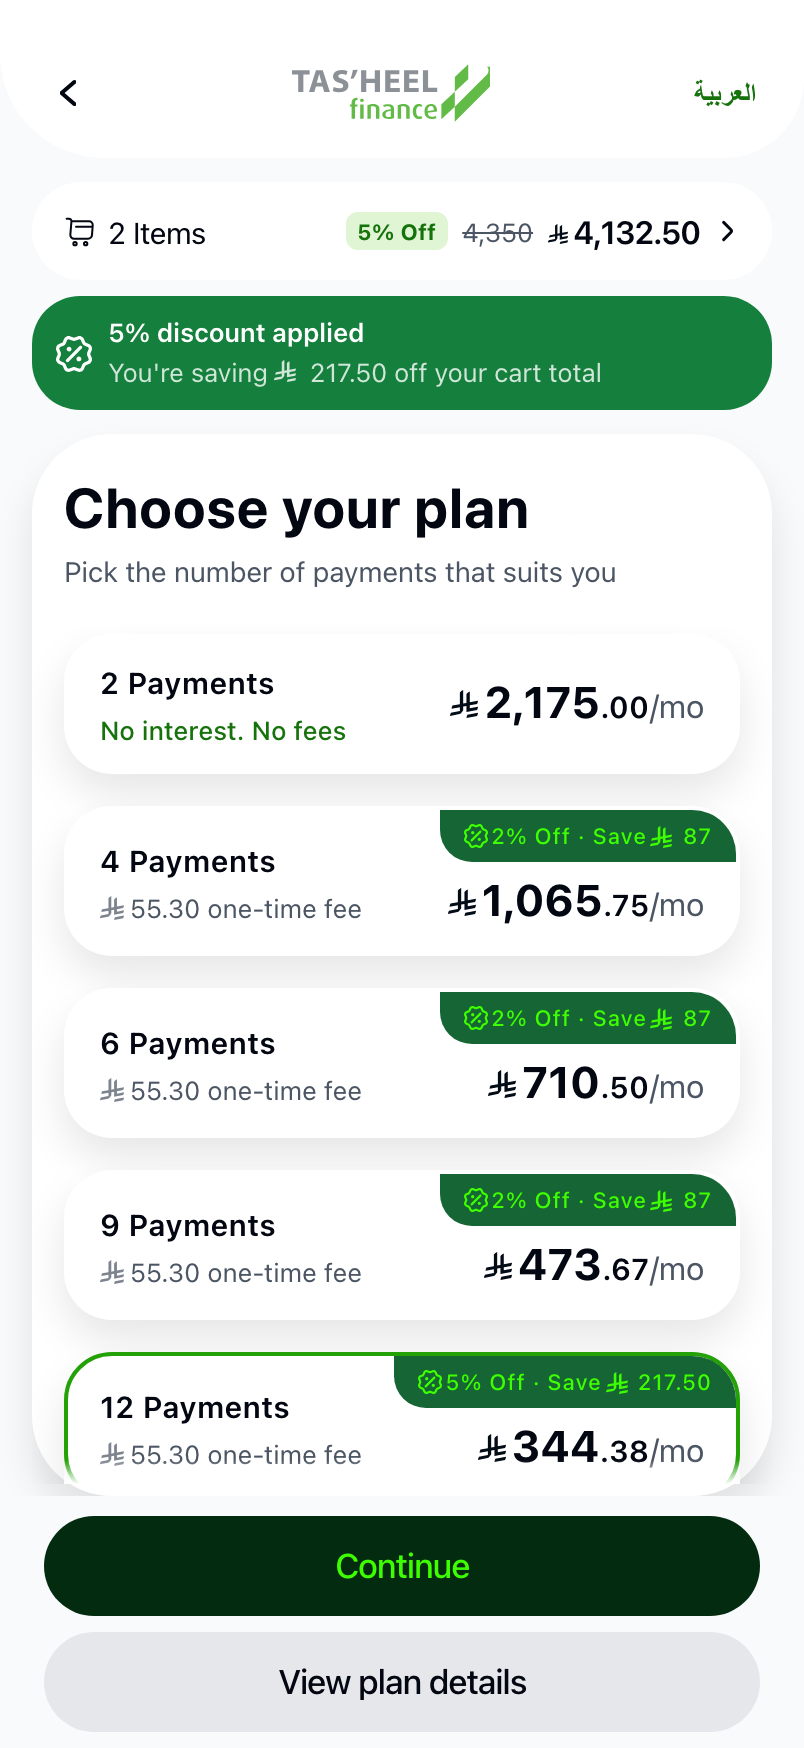
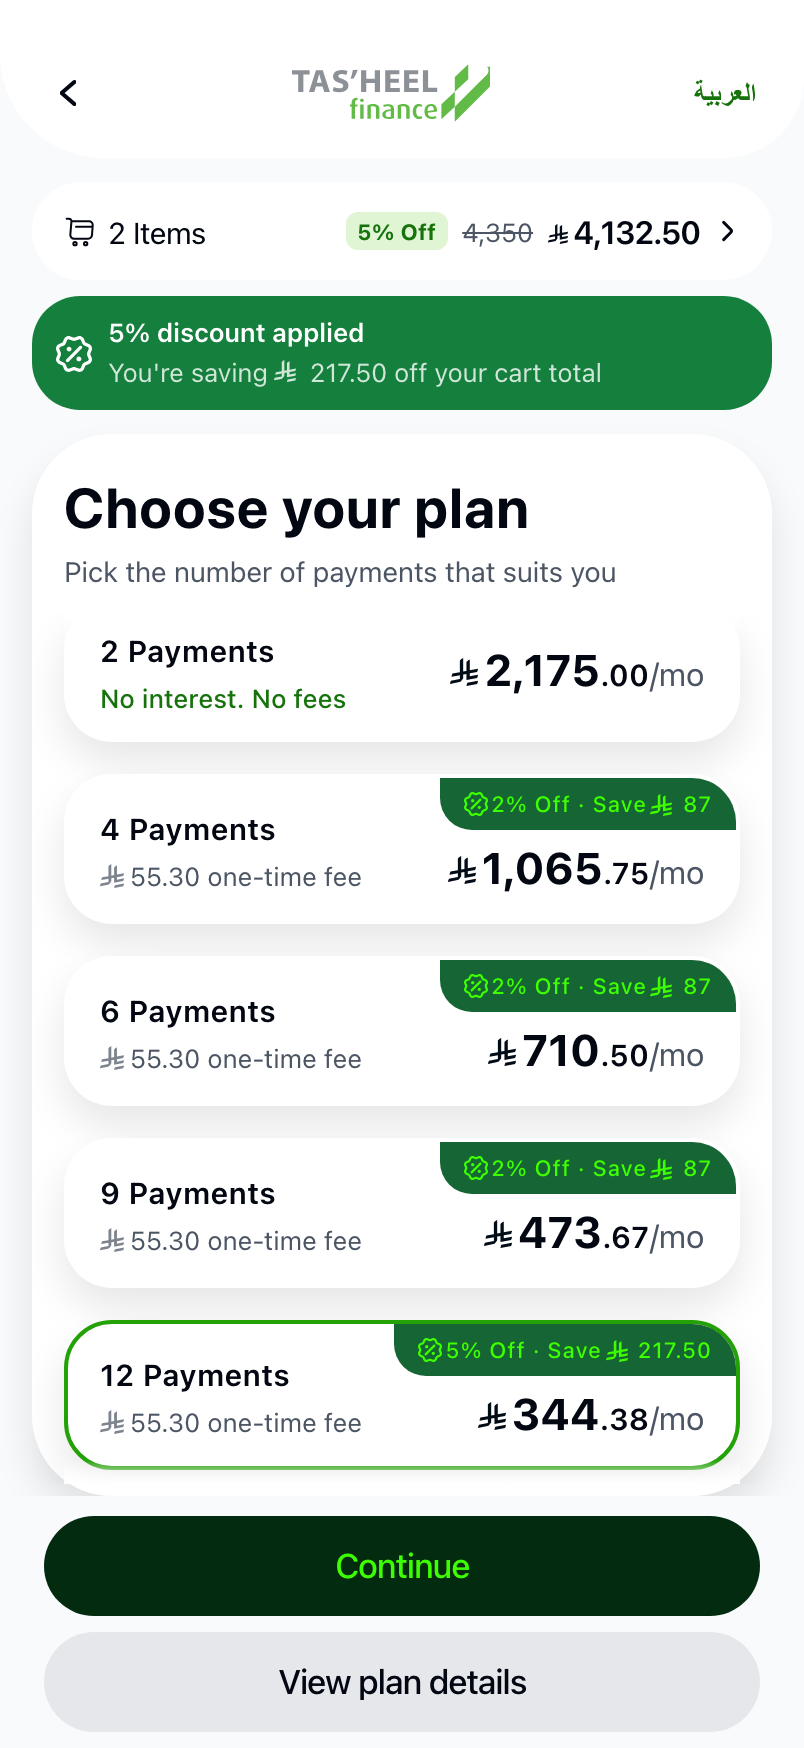
Plans list: CTA appears on selection, selected row glides into view
- The footer earns its place: no disabled grey Continue cropping the
  container while browsing — Continue + View plan details appear once a
  plan is chosen (and leave again on unselect). Pre-selection, the rows
  container gets the reclaimed height.
- Selecting a partially visible row scrolls it fully into the container.
  Geometry is deterministic (65/75/16) and the glide runs after the footer
  has taken its space, so the selected row always lands clear of the CTA.
  Scroll offset is tracked in a ref — no re-renders during scrolling.
- Row badges are uniform per the source (no "Best value" prefix on 24 —
  it overflowed the container width; the banner announces best value).

Verified iPhone 13 / SE / desktop: no CTA pre-selection, tap 24 -> CTA and
details in viewport with the row clear above them, unselect hides the CTA,
0 page errors.

diff --git a/App.tsx b/App.tsx
@@ -1763,12 +1763,10 @@ function WcPlanRow({ months, selected, onPress }: { months: number; selected: bo
       </View>
       <View style={[styles.wcPlanRowRight, saving > 0 && styles.wcPlanRowRightOffer]}>
         {saving > 0 ? (
+          // Uniform badges (Figma 3720:28984): the banner announces best value,
+          // and the container width has no room for a prefix on 24.
           <View style={styles.wcPlanRowBadge}>
-            {months === WC_BEST_TENURE ? (
-              <Text style={styles.wcPlanRowBadgeText}>Best value · </Text>
-            ) : (
-              <SaleTag size={12} color={neon} />
-            )}
+            <SaleTag size={12} color={neon} />
             <Text style={styles.wcPlanRowBadgeText}>{Math.round(wcSavingRate(months) * 100)}% Off · Save</Text>
             <Riyal size={11} color={neon} />
             <Text style={styles.wcPlanRowBadgeText}>{wcSaving(saving)}</Text>
@@ -1802,6 +1800,37 @@ function WcPlanList({ setRoute, months, setMonths }: { setRoute: (r: RouteKey) =
   const { width } = useWindowDimensions();
   const zoom = onDevice ? width / 402 : 1;
 
+  // Selecting a half-visible row glides it fully into the container. Row
+  // geometry is deterministic (65 free / 75 offer / 16 gap), and the live
+  // scroll offset is tracked in a plain ref so this never re-renders.
+  const rowsScrollRef = useRef<ScrollView>(null);
+  const rowsAreaH = useRef(0);
+  const rowsScrollY = useRef(0);
+  const ROW_FREE = 65, ROW = 75, ROW_GAP = 16, ROWS_PAD_TOP = 10;
+  const rowTop = (i: number) => ROWS_PAD_TOP + (i === 0 ? 0 : ROW_FREE + ROW_GAP + (i - 1) * (ROW + ROW_GAP));
+  const selectPlan = (value: number) => setMonths(chosen === value ? null : value);
+  // Runs after the footer (which only exists once a plan is chosen) has taken
+  // its space, so the glide lands the row clear of it.
+  useEffect(() => {
+    if (chosen === null) return;
+    const i = WC_TENURES.indexOf(chosen as (typeof WC_TENURES)[number]);
+    if (i < 0) return;
+    const t = setTimeout(() => {
+      const top = rowTop(i);
+      const h = i === 0 ? ROW_FREE : ROW;
+      const viewTop = rowsScrollY.current;
+      const viewH = rowsAreaH.current;
+      if (!viewH) return;
+      if (top < viewTop + 8) {
+        rowsScrollRef.current?.scrollTo({ y: Math.max(0, top - 12), animated: true });
+      } else if (top + h > viewTop + viewH - 8) {
+        rowsScrollRef.current?.scrollTo({ y: top + h - viewH + 12, animated: true });
+      }
+    }, 90);
+    return () => clearTimeout(t);
+    // eslint-disable-next-line react-hooks/exhaustive-deps
+  }, [chosen]);
+
   // Figma 3710:28460 — cart pill and banner ride the canvas; the plans live in
   // one white container card headed "Choose your plan". Rows scroll inside the
   // container (with white fade edges) so pill, banner, header and CTA all stay
@@ -1821,10 +1850,18 @@ function WcPlanList({ setRoute, months, setMonths }: { setRoute: (r: RouteKey) =
         <View style={{ flex: 1, minHeight: 0 }}>
           {/* Scroll region bleeds to the container edges so row shadows have
               room, while content keeps the 16px inset from the source. */}
-          <ScrollView style={{ flex: 1, marginHorizontal: -16 }} contentContainerStyle={styles.wcPlansRows} showsVerticalScrollIndicator={false}>
+          <ScrollView
+            ref={rowsScrollRef}
+            style={{ flex: 1, marginHorizontal: -16 }}
+            contentContainerStyle={styles.wcPlansRows}
+            showsVerticalScrollIndicator={false}
+            onLayout={(e) => { rowsAreaH.current = e.nativeEvent.layout.height; }}
+            onScroll={(e) => { rowsScrollY.current = e.nativeEvent.contentOffset.y; }}
+            scrollEventThrottle={16}
+          >
             <View style={styles.wcPlansList} accessibilityRole="radiogroup">
               {WC_TENURES.map((value) => (
-                <WcPlanRow key={value} months={value} selected={chosen === value} onPress={() => setMonths(chosen === value ? null : value)} />
+                <WcPlanRow key={value} months={value} selected={chosen === value} onPress={() => selectPlan(value)} />
               ))}
             </View>
           </ScrollView>
@@ -1833,27 +1870,29 @@ function WcPlanList({ setRoute, months, setMonths }: { setRoute: (r: RouteKey) =
         </View>
       </View>
       <View style={styles.wcPlansFooter}>
-        <Pressable
-          testID="wc-plans-continue"
-          disabled={chosen === null}
-          style={[styles.wcGreenCta, styles.wcPlansCta, chosen === null && styles.wcCtaDisabled]}
-          onPress={() => chosen !== null && setRoute('wcPayment')}
-          accessibilityRole="button"
-          accessibilityState={{ disabled: chosen === null }}
-          accessibilityLabel={chosen === null ? 'Choose a plan to continue' : `Continue with ${chosen} payments`}
-        >
-          <Text style={[styles.wcGreenCtaText, chosen === null && styles.wcCtaDisabledText]}>Continue</Text>
-        </Pressable>
+        {/* The CTA earns its place: it appears once a plan is chosen, so no
+            disabled grey bar crops the container while browsing. */}
         {chosen !== null ? (
-          <Pressable
-            testID="wc-plans-details"
-            style={[styles.wcGreyCta, styles.wcPlansCta]}
-            onPress={() => setSheet('details')}
-            accessibilityRole="button"
-            accessibilityLabel={`View details for ${chosen} payments`}
-          >
-            <Text style={styles.wcGreyCtaText}>View plan details</Text>
-          </Pressable>
+          <>
+            <Pressable
+              testID="wc-plans-continue"
+              style={[styles.wcGreenCta, styles.wcPlansCta]}
+              onPress={() => setRoute('wcPayment')}
+              accessibilityRole="button"
+              accessibilityLabel={`Continue with ${chosen} payments`}
+            >
+              <Text style={styles.wcGreenCtaText}>Continue</Text>
+            </Pressable>
+            <Pressable
+              testID="wc-plans-details"
+              style={[styles.wcGreyCta, styles.wcPlansCta]}
+              onPress={() => setSheet('details')}
+              accessibilityRole="button"
+              accessibilityLabel={`View details for ${chosen} payments`}
+            >
+              <Text style={styles.wcGreyCtaText}>View plan details</Text>
+            </Pressable>
+          </>
         ) : null}
         {onDevice ? null : <SafariCompactBar url="extrastores.com" onBack={() => setRoute('wcDemo')} />}
       </View>
